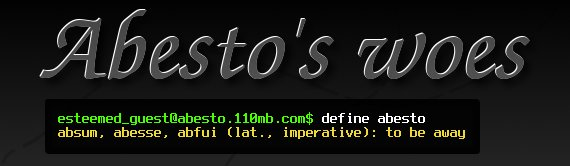
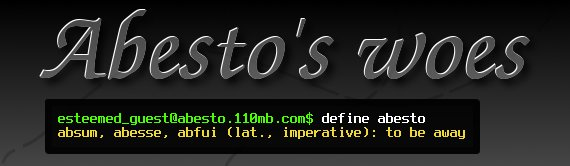
Blog sideboxes, slight color change

Changed region(s): [[0.0, 0.7229, 1.0, 1.0]]

diff --git a/css/blog.css b/css/blog.css
@@ -9,11 +9,44 @@
 }
 #main h3 a:hover { color: #333; }
 
-div.short-post {
-    margin-top: 25px;
-    margin-bottom: 10px;
-    background-color: #eeeead;
-    padding: 10px;
+#main > table td {
+    vertical-align: top;
+}
+
+#posts > div { margin-right: 25px; }
+
+div.post {
+    margin-top: 10px;
+    margin-bottom: 25px;
+    background-color: #f6f6b3;
+    padding: 17px;
+    text-align: justify;
+    -moz-border-radius: 15px;
+    -webkit-border-radius: 15px;
+}
+
+#sideboxes { padding-top: 30px; }
+
+div.box {
+    border: 1px solid green;
+    margin-bottom: 50px;
+    background-color: #fbfbb8;
+    font-size: 13px;
+}
+
+#sideboxes div.box table tr td {
+    font-size: 13px;
+    padding-left: 5px;
+}
+#sideboxes div.box table tr td:first-child { width: 100%; }
+#sideboxes div.box table { padding: 5px; }
+
+div.box h3 {
+    text-align: center;
+    border: 3px outset silver;
+    background-color: #e4e4a1;
+    padding: 3px;
+    font-variant: small-caps;
 }
 
 div.date, div.tags {

diff --git a/css/style.css b/css/style.css
@@ -2,8 +2,7 @@ body {
     margin: 0;
     padding: 0;
     font-family: "Lucida Grande",Verdana,"Bitstream Vera Sans",Arial,sans-serif;
-    font-size: 14px;
-    background-color: #b7b75d;
+    background-color: #acac75;
 }
 
 div.wrapper {
@@ -74,6 +73,8 @@ div.wrapper {
     text-align: justify;
     width: 78%;
 }
+
+#main div { font-size: 13px; }
 
 #main a {
     color: #090;

diff --git a/ci/application/models/blog_model.php b/ci/application/models/blog_model.php
@@ -25,7 +25,9 @@ class Blog_model extends Model {
 
   function get_posts_by_tag($tag)
   {
-    $this->db->select('posts.id')->from('posts')->join('tags_join', 'posts.id = tags_join.post_id')->join('tags', 'tags_join.tag_id = tags.id')->where('tags.name', $tag);
+    $this->db->select('posts.id')->from('posts');
+    $this->db->join('tags_join', 'posts.id = tags_join.post_id')->join('tags', 'tags_join.tag_id = tags.id');
+    $this->db->where('tags.name', $tag);
     $ids = array();
     foreach($this->db->get()->result() as $row)
       $ids[] = $row->id;
@@ -37,9 +39,35 @@ class Blog_model extends Model {
     return $posts;
   }
 
+  function get_posts_by_date($year, $month)
+  {
+    $this->db->from('posts')->like('date', $year.'-'.$month)->order_by('date', 'desc');
+    $posts = $this->db->get()->result_array();
+    for ($i = 0; $i < sizeof($posts); $i++)
+      $this->_get_details($posts[$i]);
+    return $posts;
+  }
+
+  function get_tags()
+  {
+    $this->db->select('tags.name, COUNT(tags_join.tag_id) AS c');
+    $this->db->from('tags')->join('tags_join', 'tags.id = tags_join.tag_id');
+    $this->db->group_by('tags.name');
+    return $this->db->get()->result();
+  }
+
+  function get_dates()
+  {
+    $this->db->select("COUNT(`title`) AS c, DATE_FORMAT(`date`, '%M, %Y') AS label, DATE_FORMAT(`date`, '%Y/%m') AS url", false);
+    $this->db->from('posts')->group_by("EXTRACT(YEAR_MONTH FROM `date`)");
+    return $this->db->get()->result();
+  }
+
   function _get_details(&$post)
   {
-    $this->db->select('name')->from('posts')->join('tags_join', 'posts.id = tags_join.post_id')->join('tags', 'tags_join.tag_id = tags.id')->where('posts.id', $post['id']);
+    $this->db->select('name')->from('posts');
+    $this->db->join('tags_join', 'posts.id = tags_join.post_id')->join('tags', 'tags_join.tag_id = tags.id');
+    $this->db->where('posts.id', $post['id']);
     $post['tags'] = $this->db->get()->result_array();
     $post['comments'] = array();
   }

diff --git a/ci/application/controllers/blog.php b/ci/application/controllers/blog.php
@@ -8,22 +8,23 @@ class Blog extends BaseController {
     $this->slots['style'] = 'blog';
     $this->load->helper('url');
     $this->load->model('blog_model');
+
+    $this->slots['tags'] = $this->blog_model->get_tags();
+    $this->slots['dates'] = $this->blog_model->get_dates();
   }
 
   function index()
   {
     $this->slots['title'] = "Recent posts";
     $posts = $this->blog_model->get_first(4);
-    $this->slots['content'] = '';
-    foreach ($posts as $post)
-      $this->slots['content'] .= $this->load->view('post_short', $post, true);
+    $this->_post_list($posts);
     $this->render();
   }
 
   function post($title)
   {
     $post = $this->blog_model->get_post($title);
-    $this->slots['content'] = $this->load->view('post_long', $post, true);
+    $this->slots['posts'] = $this->load->view('post_long', $post, true);
     $this->render();
   }
 
@@ -31,9 +32,29 @@ class Blog extends BaseController {
   {
     $this->slots['title'] = "Posts tagged '$tag'";
     $posts = $this->blog_model->get_posts_by_tag($tag);
-    $this->slots['content'] = '';
-    foreach ($posts as $post)
-      $this->slots['content'] .= $this->load->view('post_short', $post, true);
+    $this->_post_list($posts);
     $this->render();
+  }
+
+  function date($year, $month)
+  {
+    $this->slots['title'] = "Posts of " . date('F', mktime(0,0,0,$month,1)) . ", $year";
+    $posts = $this->blog_model->get_posts_by_date($year, $month);
+    $this->_post_list($posts);
+    $this->render();
+  }
+
+  function _post_list($result)
+  {
+    $this->slots['posts'] = '';
+    foreach ($result as $post)
+      $this->slots['posts'] .= $this->load->view('post_short', $post, true);
+  }
+
+
+  function render()
+  {
+    $this->slots['content'] = $this->load->view('blog_skeleton', $this->slots, true);
+    parent::render();
   }
 }

diff --git a/ci/application/controllers/BaseController.php b/ci/application/controllers/BaseController.php
@@ -15,7 +15,7 @@ class BaseController extends Controller
     $this->slots = array();
   }
 
-  public function render()
+  public function render($return=false)
   {
     $this->load->helper('html');
     $this->load->helper('url');
@@ -27,7 +27,7 @@ class BaseController extends Controller
 
     $this->load->model('quotes_model');
     $this->slots['quote'] = $this->quotes_model->get_random_quote();
-    $this->load->view('skeleton', $this->slots);
+    return $this->load->view('skeleton', $this->slots, $return);
   }
 }
 ?>

diff --git a/ci/application/views/post_short.php b/ci/application/views/post_short.php
@@ -1,4 +1,4 @@
-<div class="short-post">
+<div class="post">
 <?php include("permalink.php"); ?>
 <h3><?php echo anchor($permalink, $title); ?></h3>
 <?php include('post_header.php'); ?>
@@ -6,5 +6,5 @@
 echo $short_text;
 if ($more == true)
   echo anchor($permalink.'#more', 'Read more...'); ?>
-<div class="comments"><?php echo sizeof($comments); ?> comments</div>
+<!--<div class="comments"><?php echo sizeof($comments); ?> comments</div>-->
 </div>

diff --git a/ci/application/config/routes.php b/ci/application/config/routes.php
@@ -44,5 +44,6 @@ $route['default_controller'] = "about";
 $route['scaffolding_trigger'] = "";
 
 $route['blog/:num/:num/:num/(:any)'] = "blog/post/$1";
+$route['blog/(:num/:num)'] = "blog/date/$1";
 /* End of file routes.php */
 /* Location: ./system/application/config/routes.php */

diff --git a/ci/application/views/post_long.php b/ci/application/views/post_long.php
@@ -1,8 +1,10 @@
-<?php include('post_header.php');
-echo $short_text;
+<?php include('post_header.php'); ?>
+<div class="post">
+<?php echo $short_text;
 if ($more == true): ?>
 <a id="more"></a>
 <?php
    echo $more_text;
    endif;
  ?>
+</div>
